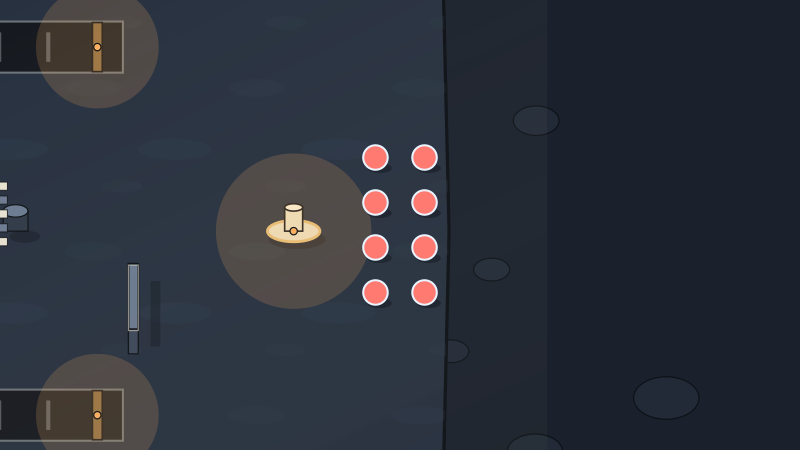
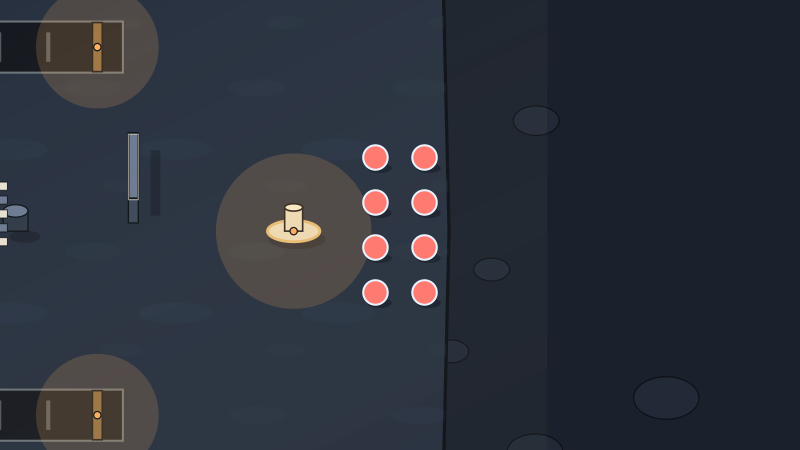
#3430: Warden's Gallery: drop-offs and barricades mirrored in x

Changed region(s): [[0.1562, 0.28, 0.1875, 0.4978], [0.1562, 0.5911, 0.1875, 0.7778]]

diff --git a/docs/art/3075-wardens-gallery.md b/docs/art/3075-wardens-gallery.md
@@ -33,11 +33,11 @@ sculpture gallery with four gates, balconies, plinths as points, skylights) is k
   walkable floor (#3179).
 - **Gates (4, as today):** the four undercroft gates. Today's plate openers are replaced by levers
   (below); see Questions.
-- **Drop-offs (4):** the north-west balcony's court edge, the south-east balcony's, the great
-  plinth's north and south edges.
+- **Drop-offs (4):** the north-west balcony's court edge, the north-east balcony's, the great
+  plinth's west and east edges.
 - **Elements:** two brass **levers** on the great plinth's base, (2330,1120) **opens both north gates**,
   (2870,1380) **both south gates**: either team opens them, and they stay open. No lift is used. Two
-  **breakable toppled statue barricades** (x 1000, y 1010..1170 and its mirror at y 1330..1490) each
+  **breakable toppled statue barricades** (x 1000, y 1010..1170 and its x-mirror at x 4176) each
   close a short-cut from a vestibule into the court. Zones: `spring` and `mire`, two each, in the
   four corner alcoves, off every route and ≥ 200 u from a spawn. Four shallow **reflecting pools**
   (walkable, clear water). Atmosphere (existing, #3032): three dust-in-the-light patches, under
